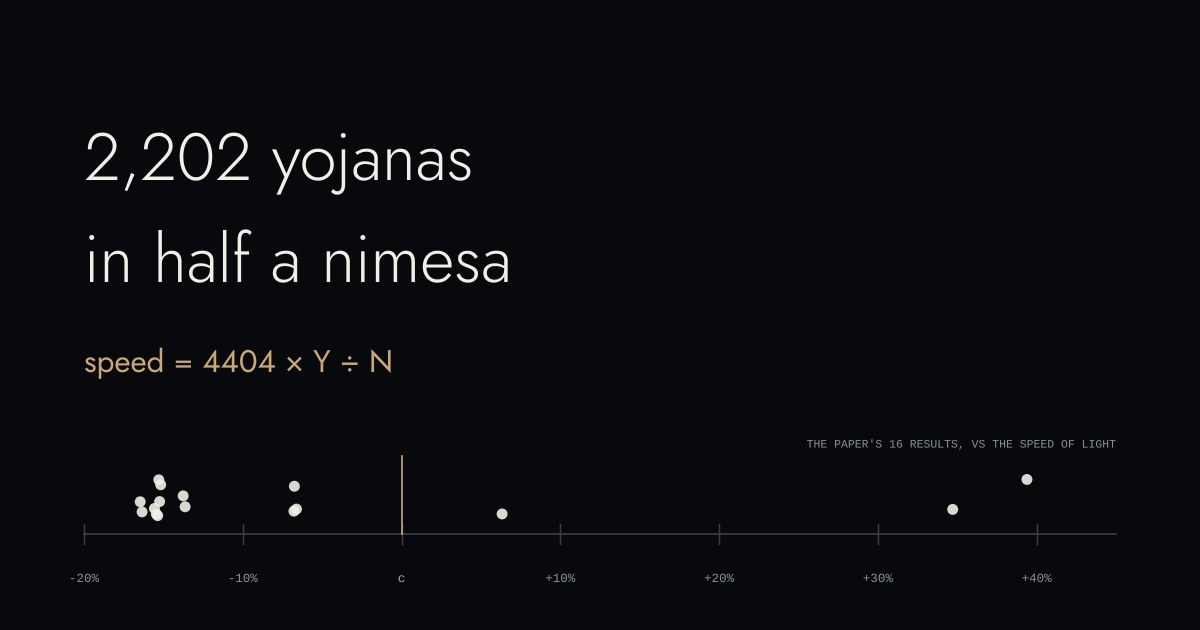
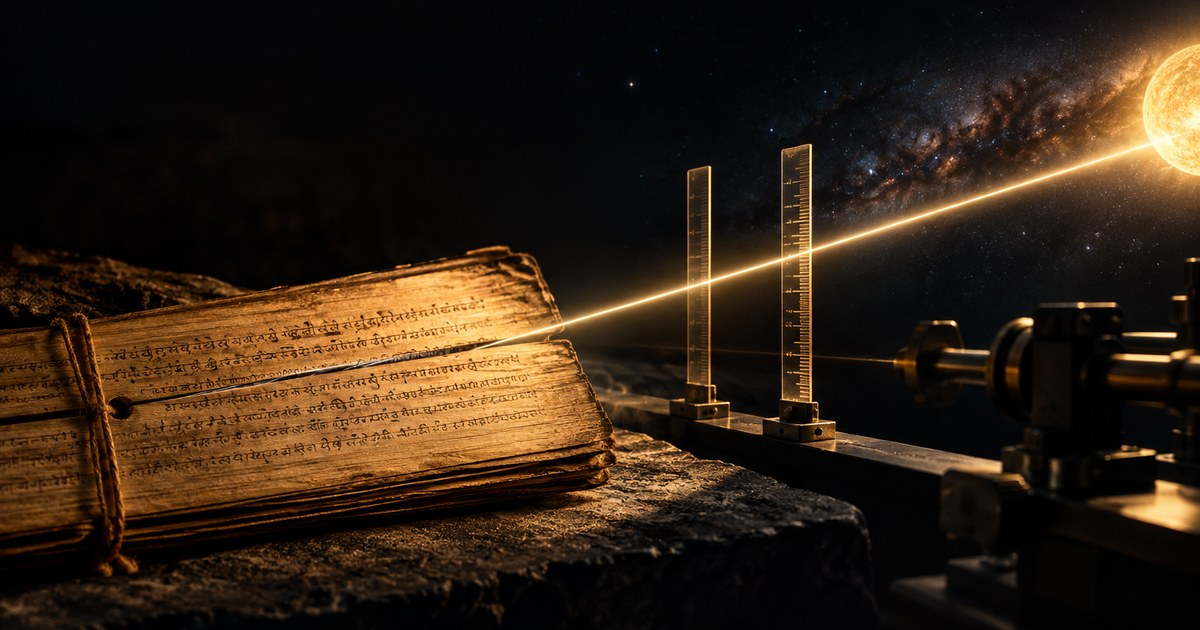
Replace cover image on the Sayana post
New manuscript-and-sunlight cover, cropped to 1.91:1 (1536x806) with a
1200x630 social card, and matching alt text.

Claude-Session: https://claude.ai/code/session_017hSnEPpzjUy4sdcNh2i1Jw

diff --git a/content/blog/did-an-ancient-text-know-the-speed-of-light.md b/content/blog/did-an-ancient-text-know-the-speed-of-light.md
@@ -13,7 +13,7 @@ topics:
   - Scientific peer review
 cover: /images/blog/sayana-audit/cover.webp
 ogImage: /images/blog/sayana-audit/cover-og.jpg
-coverAlt: The line 2,202 yojanas in half a nimesa, the formula speed equals 4404 times Y divided by N, and a number line showing the paper's 16 results scattered around the speed of light
+coverAlt: An old palm-leaf manuscript lit by a single beam of sunlight that passes two measuring rulers with different markings
 quote: "“Honouring a tradition means checking its claims as carefully as we celebrate them.”"
 summary:
   - The printed speed arithmetic holds up. All 16 tabulated calculations reproduce from their printed inputs, to the displayed rounding.
